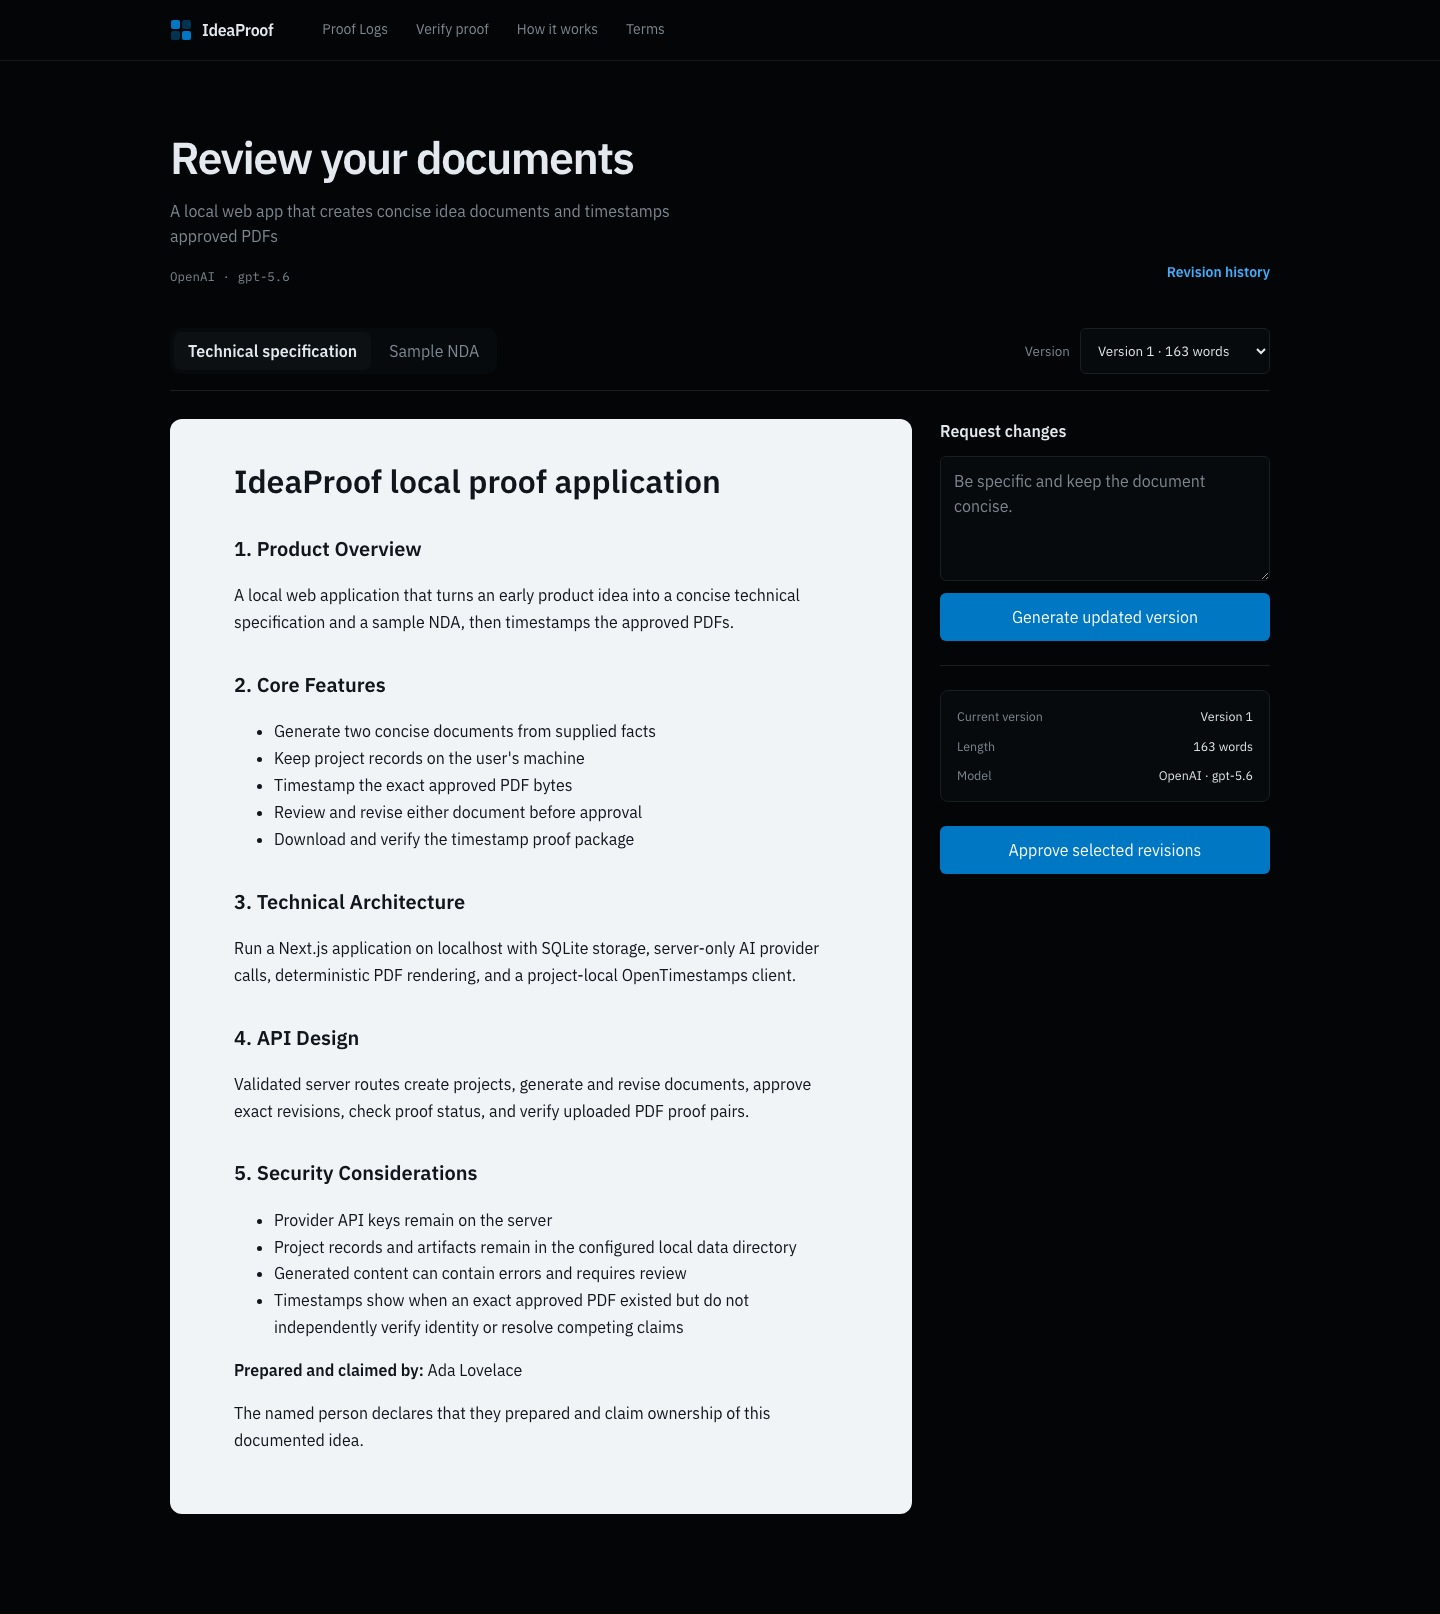
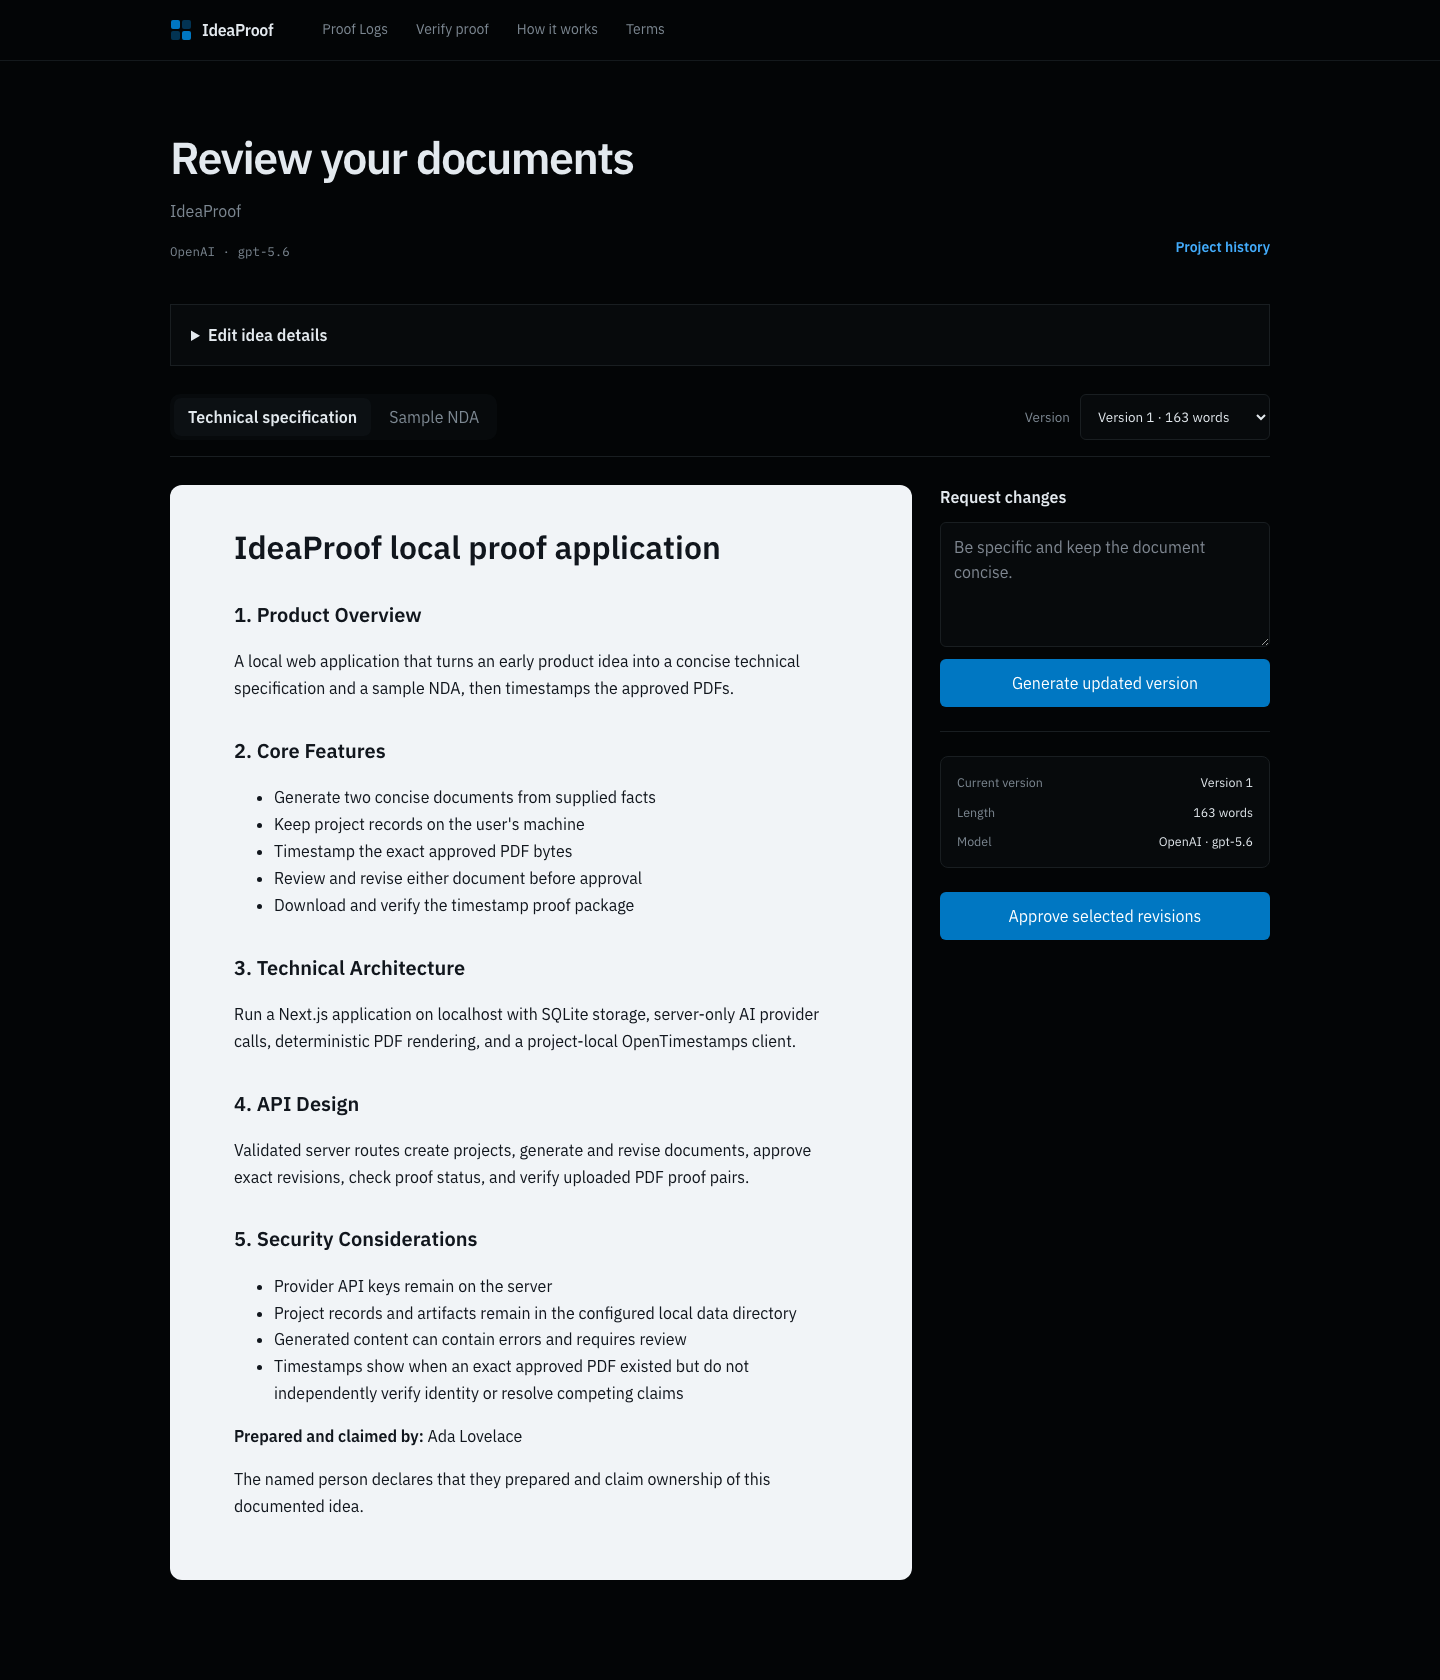
docs: explain idea history and regeneration

diff --git a/tests/e2e/screenshots.spec.ts b/tests/e2e/screenshots.spec.ts
@@ -23,6 +23,7 @@ test("capture public README screens", async ({ page }) => {
   });
 
   await page.goto("/projects/new");
+  await page.getByLabel("Idea name").fill("IdeaProof");
   await page.getByLabel("Owner’s full name").fill("Ada Lovelace");
   await page
     .getByLabel("Raw software idea")
@@ -84,13 +85,13 @@ test("capture public README screens", async ({ page }) => {
     fullPage: true,
   });
 
-  await page.getByRole("link", { name: "Revision history" }).click();
+  await page.getByRole("link", { name: "Project history" }).click();
   await expect(page).toHaveURL(/\/history$/);
   await expect(
-    page.getByRole("heading", { name: "Revision history" }),
+    page.getByRole("heading", { name: "Project history" }),
   ).toBeVisible();
   await expect(
-    page.getByText("Every accepted generation remains available"),
+    page.getByText("Idea updates and generated documents remain available"),
   ).toBeVisible();
   await page.screenshot({
     path: "/tmp/ideaproof-history.png",

diff --git a/README.md b/README.md
@@ -114,9 +114,26 @@ providers. OpenAI defaults to `gpt-5.6`; Anthropic defaults to
 `claude-opus-4-8`. You may change either model variable for future projects,
 but the named model must be available to your API account.
 
+Each project also requires a short **Idea name**. IdeaProof uses it as the
+project title and supplies it to the selected AI provider with the idea.
+
 The generated technical specification is limited to 1,000 words. The sample
 NDA is limited to 700 words and deliberately leaves Party A, Party B, Effective
 Date, and Confidentiality Period blank unless you provide those facts.
+
+## Idea updates and document regeneration
+
+Before approval, **Edit idea details** lets you change the Idea name or expand
+the raw idea. Every save appends a complete snapshot to **Project history**;
+older snapshots remain available with their local date and time. These local
+history dates are not OpenTimestamps proofs.
+
+Saving an idea update stays on your machine and makes no AI request. Because
+existing documents describe the earlier snapshot, IdeaProof then blocks
+approval until you choose **Regenerate both documents · 2 AI requests**.
+Normal regeneration makes one request for the technical specification and one
+for the sample NDA. A document may need one extra shortening request only when
+the first response exceeds its word limit.
 
 ## Development
 
